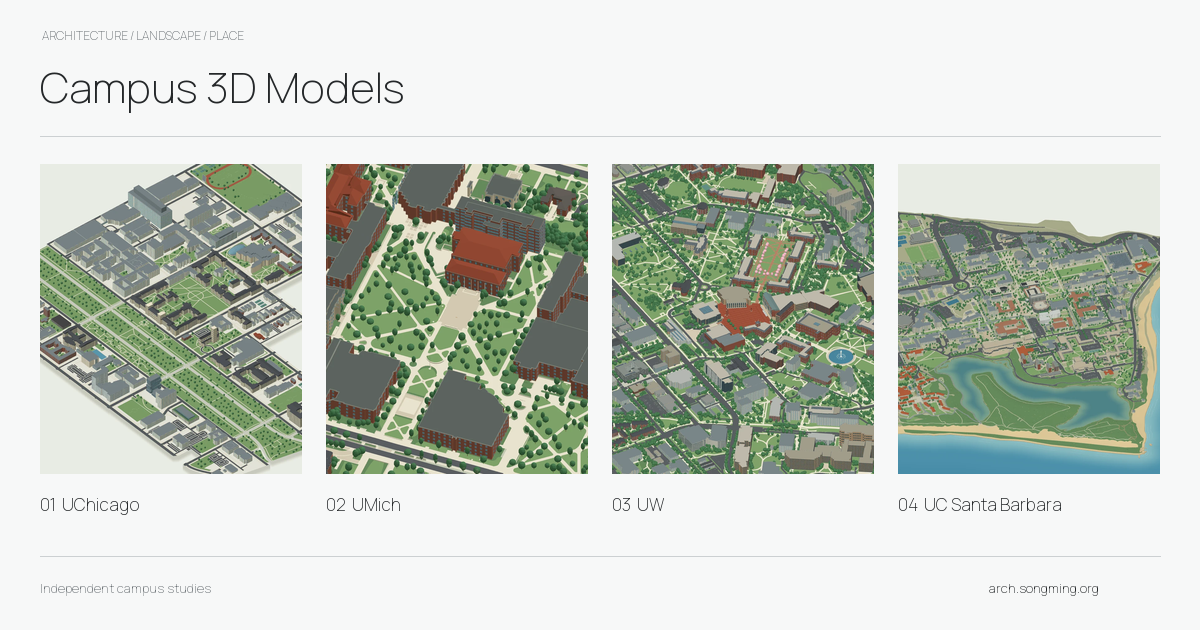
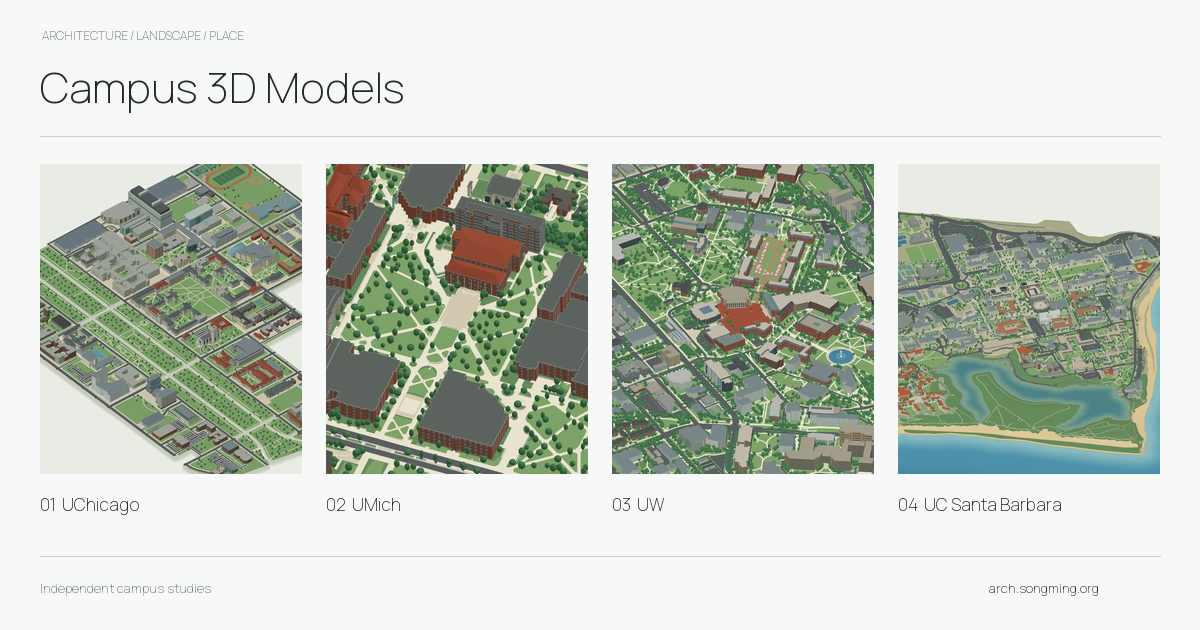
Release 26.10.18.4

Changed region(s): [[0.0308, 0.2413, 0.2775, 0.6635], [0.0308, 0.4825, 0.2158, 0.754]]

diff --git a/index.html b/index.html
@@ -1,7 +1,7 @@
 <!doctype html>
 <html lang="en"><head><meta charset="utf-8"><meta name="viewport" content="width=device-width,initial-scale=1"><meta name="color-scheme" content="light"><meta name="theme-color" content="#f7f8f8">
 <title>Campus 3D Models | Explore Four University Campuses</title><meta name="description" content="Explore UChicago, UMich, UW and UC Santa Barbara through interactive 3D campus models. Discover architecture, landscapes, and layered Rhino and 3DS downloads."><meta name="robots" content="index,follow,max-image-preview:large"><link rel="canonical" href="https://arch.songming.org/">
-<meta property="og:type" content="website"><meta property="og:site_name" content="Campus 3D Models"><meta property="og:title" content="Campus 3D Models"><meta property="og:description" content="Four campuses. A different perspective. Explore UChicago, UMich, UW and UC Santa Barbara in 3D."><meta property="og:url" content="https://arch.songming.org/"><meta property="og:locale" content="en_US"><meta property="og:locale:alternate" content="zh_CN"><meta property="og:image" content="https://arch.songming.org/assets/images/social-preview.png?v=26.10.16.5"><meta property="og:image:width" content="1200"><meta property="og:image:height" content="630"><meta property="og:image:alt" content="Four architectural campus model previews from the Campus 3D Models collection."><meta name="twitter:card" content="summary_large_image"><meta name="twitter:title" content="Campus 3D Models"><meta name="twitter:description" content="Four campuses. A different perspective."><meta name="twitter:image" content="https://arch.songming.org/assets/images/social-preview.png?v=26.10.16.5">
+<meta property="og:type" content="website"><meta property="og:site_name" content="Campus 3D Models"><meta property="og:title" content="Campus 3D Models"><meta property="og:description" content="Four campuses. A different perspective. Explore UChicago, UMich, UW and UC Santa Barbara in 3D."><meta property="og:url" content="https://arch.songming.org/"><meta property="og:locale" content="en_US"><meta property="og:locale:alternate" content="zh_CN"><meta property="og:image" content="https://arch.songming.org/assets/images/social-preview.png?v=26.10.18.4"><meta property="og:image:width" content="1200"><meta property="og:image:height" content="630"><meta property="og:image:alt" content="Four architectural campus model previews from the Campus 3D Models collection."><meta name="twitter:card" content="summary_large_image"><meta name="twitter:title" content="Campus 3D Models"><meta name="twitter:description" content="Four campuses. A different perspective."><meta name="twitter:image" content="https://arch.songming.org/assets/images/social-preview.png?v=26.10.18.4">
 <link rel="icon" type="image/svg+xml" href="assets/brand/atlas.svg"><link rel="icon" type="image/png" sizes="32x32" href="assets/brand/icon-32.png"><link rel="apple-touch-icon" href="assets/brand/apple-touch-icon.png"><link rel="stylesheet" href="assets/site.css?v=26.10.18.2"><script defer src="assets/site.js"></script><script type="application/ld+json" id="schema">{"@context":"https://schema.org","@graph":[{"@type":"WebSite","@id":"https://arch.songming.org/#website","url":"https://arch.songming.org/","name":"Campus 3D Models","inLanguage":["en","zh-CN"]},{"@type":"CollectionPage","@id":"https://arch.songming.org/#collection","url":"https://arch.songming.org/","name":"Campus 3D Models","description":"Explore interactive 3D campus models of UChicago, UMich, UW and UC Santa Barbara.","isPartOf":{"@id":"https://arch.songming.org/#website"},"mainEntity":{"@type":"ItemList","numberOfItems":4,"itemListElement":[{"@type":"ListItem","position":1,"name":"University of Washington","url":"https://uw.arch.songming.org/"},{"@type":"ListItem","position":2,"name":"UC Santa Barbara","url":"https://ucsb.arch.songming.org/"},{"@type":"ListItem","position":3,"name":"University of Chicago","url":"https://uchi.arch.songming.org/"},{"@type":"ListItem","position":4,"name":"University of Michigan","url":"https://umich.arch.songming.org/"}]}}]}</script></head>
 <body id="top">
 <a href="#campuses" class="skip-link" data-i18n="skip">Skip to campus collection</a>
@@ -20,7 +20,7 @@
  <p class="project-features" data-i18n="ucsb.features">Campus Lagoon · Pacific coast · Isla Vista</p><span class="project-link"><span data-i18n="open">View model</span><span class="model-arrow" aria-hidden="true"><svg viewBox="0 0 16 24" width="16" height="24" focusable="false"><path d="M3 18 13 7M5.5 7H13v7.5"/></svg></span></span>
 </a><a class="campus-card" href="https://uchi.arch.songming.org/" target="_blank" rel="noopener" data-campus="uchi" id="project-uchi" aria-label="View University of Chicago model (opens in a new tab)">
  <div class="project-line"><span class="project-number">03</span><span data-i18n="uchi.location">Chicago, Illinois</span><span class="project-mark" aria-hidden="true"><svg viewBox="0 0 24 24" aria-hidden="true"><path d="M5 19 19 5M5 5h14v14"/></svg></span></div>
- <div class="card-image"><img src="assets/images/uchi-small.webp?v=26.10.16.5" srcset="assets/images/uchi-small.webp?v=26.10.16.5 700w, assets/images/uchi.webp?v=26.10.16.5 1400w" sizes="(max-width: 700px) 100vw, 50vw" width="1400" height="1000" alt="3D exterior model of the University of Chicago campus" loading="lazy" decoding="async"></div>
+ <div class="card-image"><img src="assets/images/uchi-small.webp?v=26.10.18.4" srcset="assets/images/uchi-small.webp?v=26.10.18.4 700w, assets/images/uchi.webp?v=26.10.18.4 1400w" sizes="(max-width: 700px) 100vw, 50vw" width="1400" height="1000" alt="3D exterior model of the University of Chicago campus" loading="lazy" decoding="async"></div>
  <div class="project-caption"><h3 data-i18n="uchi.name">University of Chicago</h3><span data-i18n="uchi.campus">Hyde Park campus</span></div>
  <p class="project-features" data-i18n="uchi.features">Main Quads · Midway Plaisance · Architectural landmarks</p><span class="project-link"><span data-i18n="open">View model</span><span class="model-arrow" aria-hidden="true"><svg viewBox="0 0 16 24" width="16" height="24" focusable="false"><path d="M3 18 13 7M5.5 7H13v7.5"/></svg></span></span>
 </a><a class="campus-card" href="https://umich.arch.songming.org/" target="_blank" rel="noopener" data-campus="umich" id="project-umich" aria-label="View University of Michigan model (opens in a new tab)">

diff --git a/docs/ASSET_SOURCES.md b/docs/ASSET_SOURCES.md
@@ -2,11 +2,11 @@
 
 Campus previews are exported renders from the corresponding local campus projects. They are used here as static navigation previews; interactive models remain on their own websites. The images are cropped/resized and encoded as WebP. Their original geometry and source attribution remain documented in each campus project.
 
[5 lines of base64/hex data omitted]
 
-For UMich and UChicago, export the recorded camera through the current campus browser viewer at the exact `resolution` in its camera JSON, with the complete CAD stream and all exterior details enabled. Use **Save view**, then run `python3 scripts/encode_browser_preview.py CAMPUS /path/to/view.png`. This applies the recorded crop and encodes both thumbnail sizes. A raw-mesh depth-buffer render is unsuitable for published previews: it omits the viewer's explicit landscape ordering and can cover lawns with underlying pale terrain. The browser captures retain the same CAD digests as the preceding previews; the corrected difference is rendering, not a model revision.
+For UMich and UChicago, export the recorded camera through the current campus browser viewer at the exact `resolution` in its camera JSON, with the complete CAD stream and all exterior details enabled. Use **Save view**, then run `python3 scripts/encode_browser_preview.py CAMPUS /path/to/view.png`. This applies the recorded crop and encodes both thumbnail sizes. A raw-mesh depth-buffer render is unsuitable for published previews: it omits the viewer's explicit landscape ordering and can cover lawns with underlying pale terrain. The camera metadata records the exact model release, geometry digest and capture dimensions for each preview.
 
 The website uses system Helvetica/Arial and Chinese system fonts. Manrope is retained for raster share-image generation under the SIL Open Font License. Legacy font assets keep their accompanying licenses. The monochrome atlas mark is an original SVG made for this project.

diff --git a/CHANGELOG.md b/CHANGELOG.md
@@ -1,5 +1,10 @@
 # Changelog
 
+## 26.10.18.4 — 2026-10-18
+
+- Refresh only UChicago's preview from the complete current campus model, including its optimized medical district, detailed Crerar Library, refined Science Quadrangle and optimized Harper Memorial Library, with the original browser camera, framing, crop and thumbnail sizes preserved.
+- Update the UChicago tile in the share image and record capture provenance. Keep the UW, UCSB, UChicago, UMich collection order and all other site content and styling unchanged.
+
 ## 26.10.18.3 — 2026-10-18
 
 - Reorder the campus collection to UW, UC Santa Barbara, UChicago, and UMich, with matching project numbers and structured-list order. Preserve all preview images, copy, styling, and behavior.
